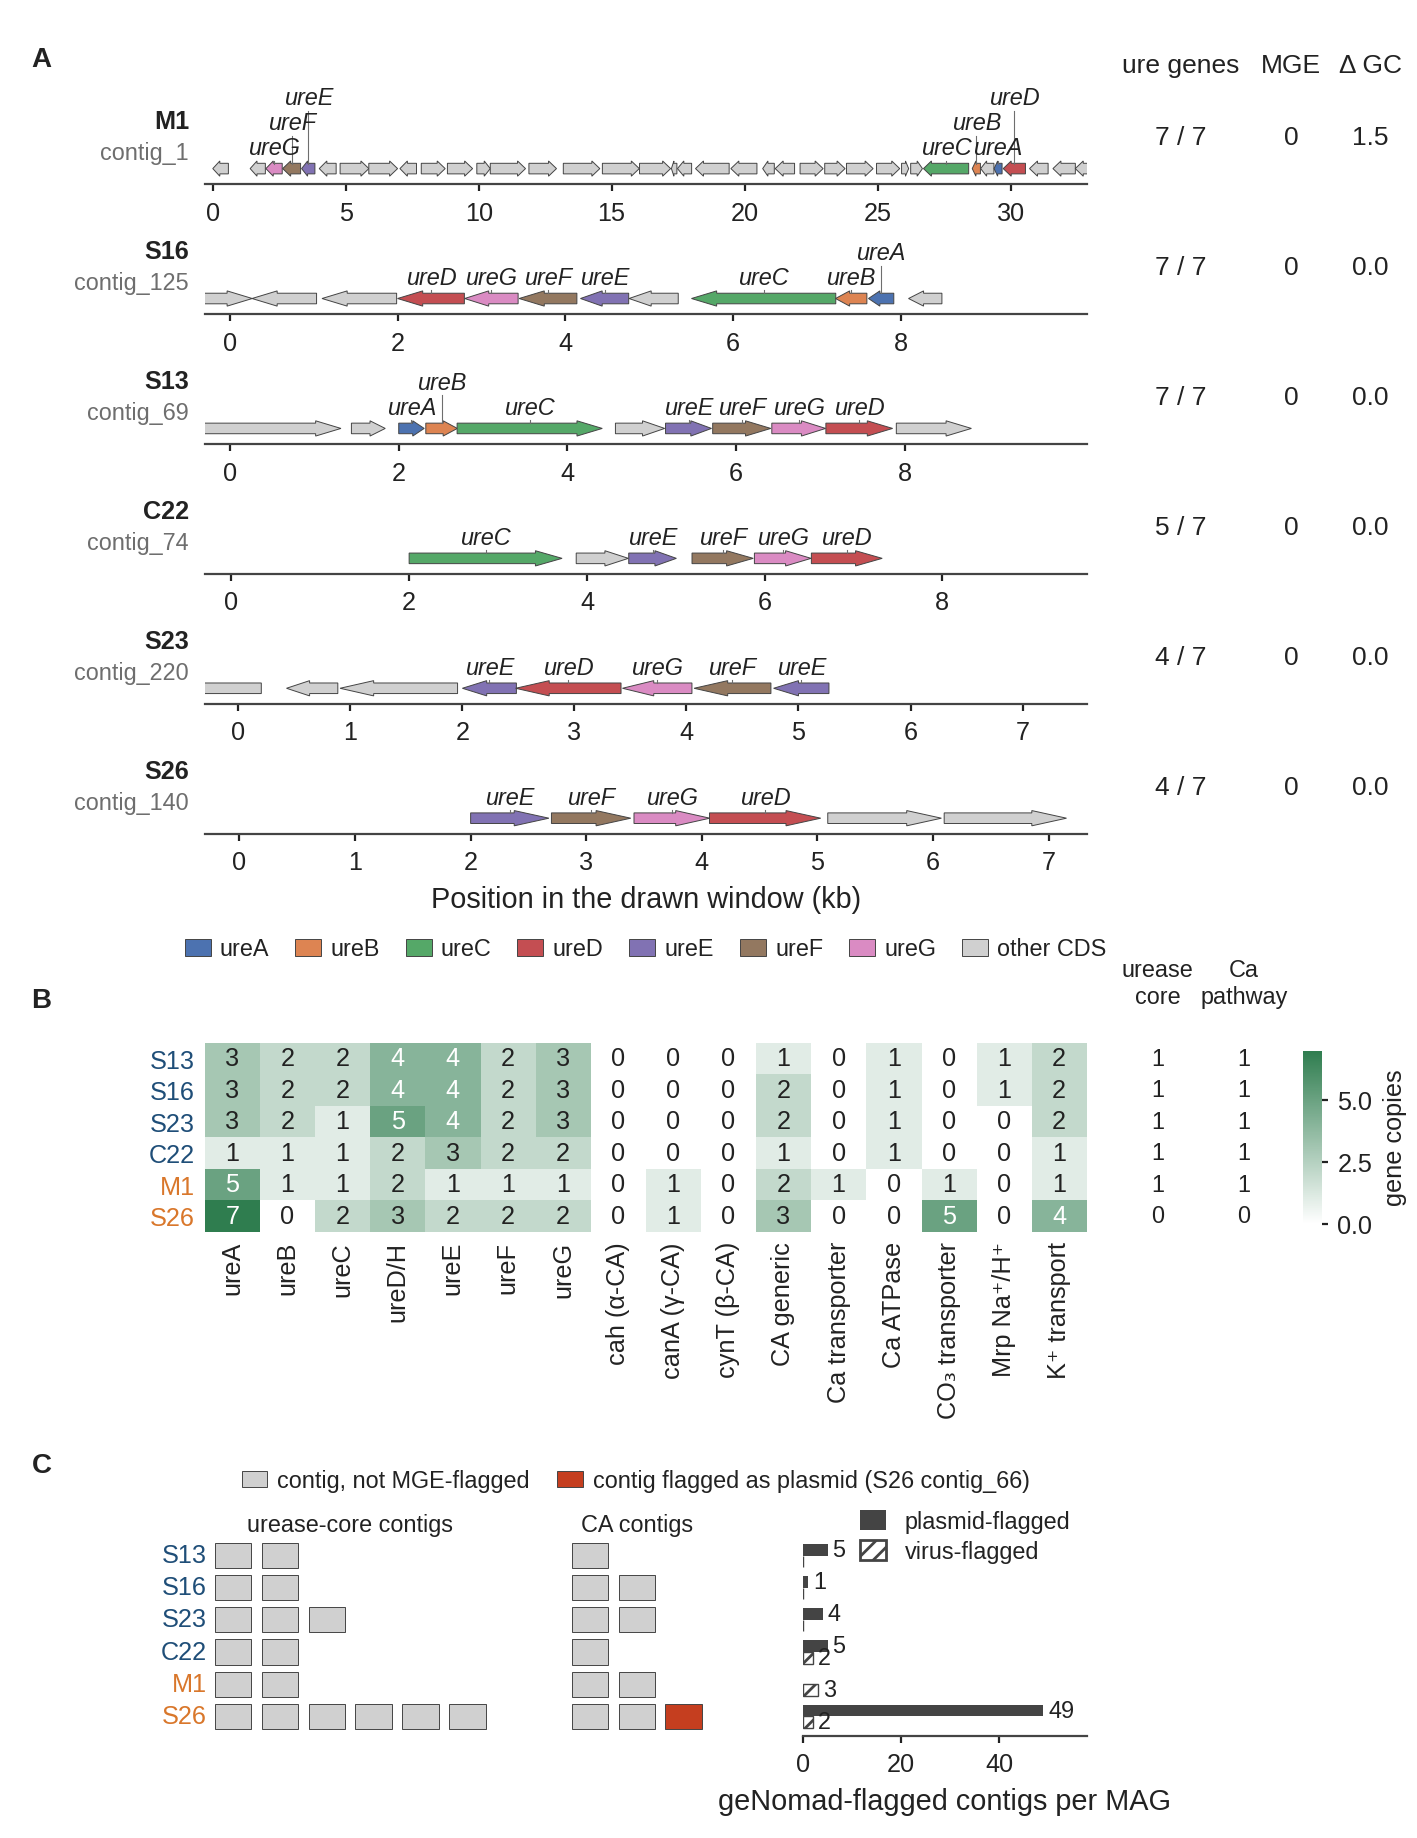
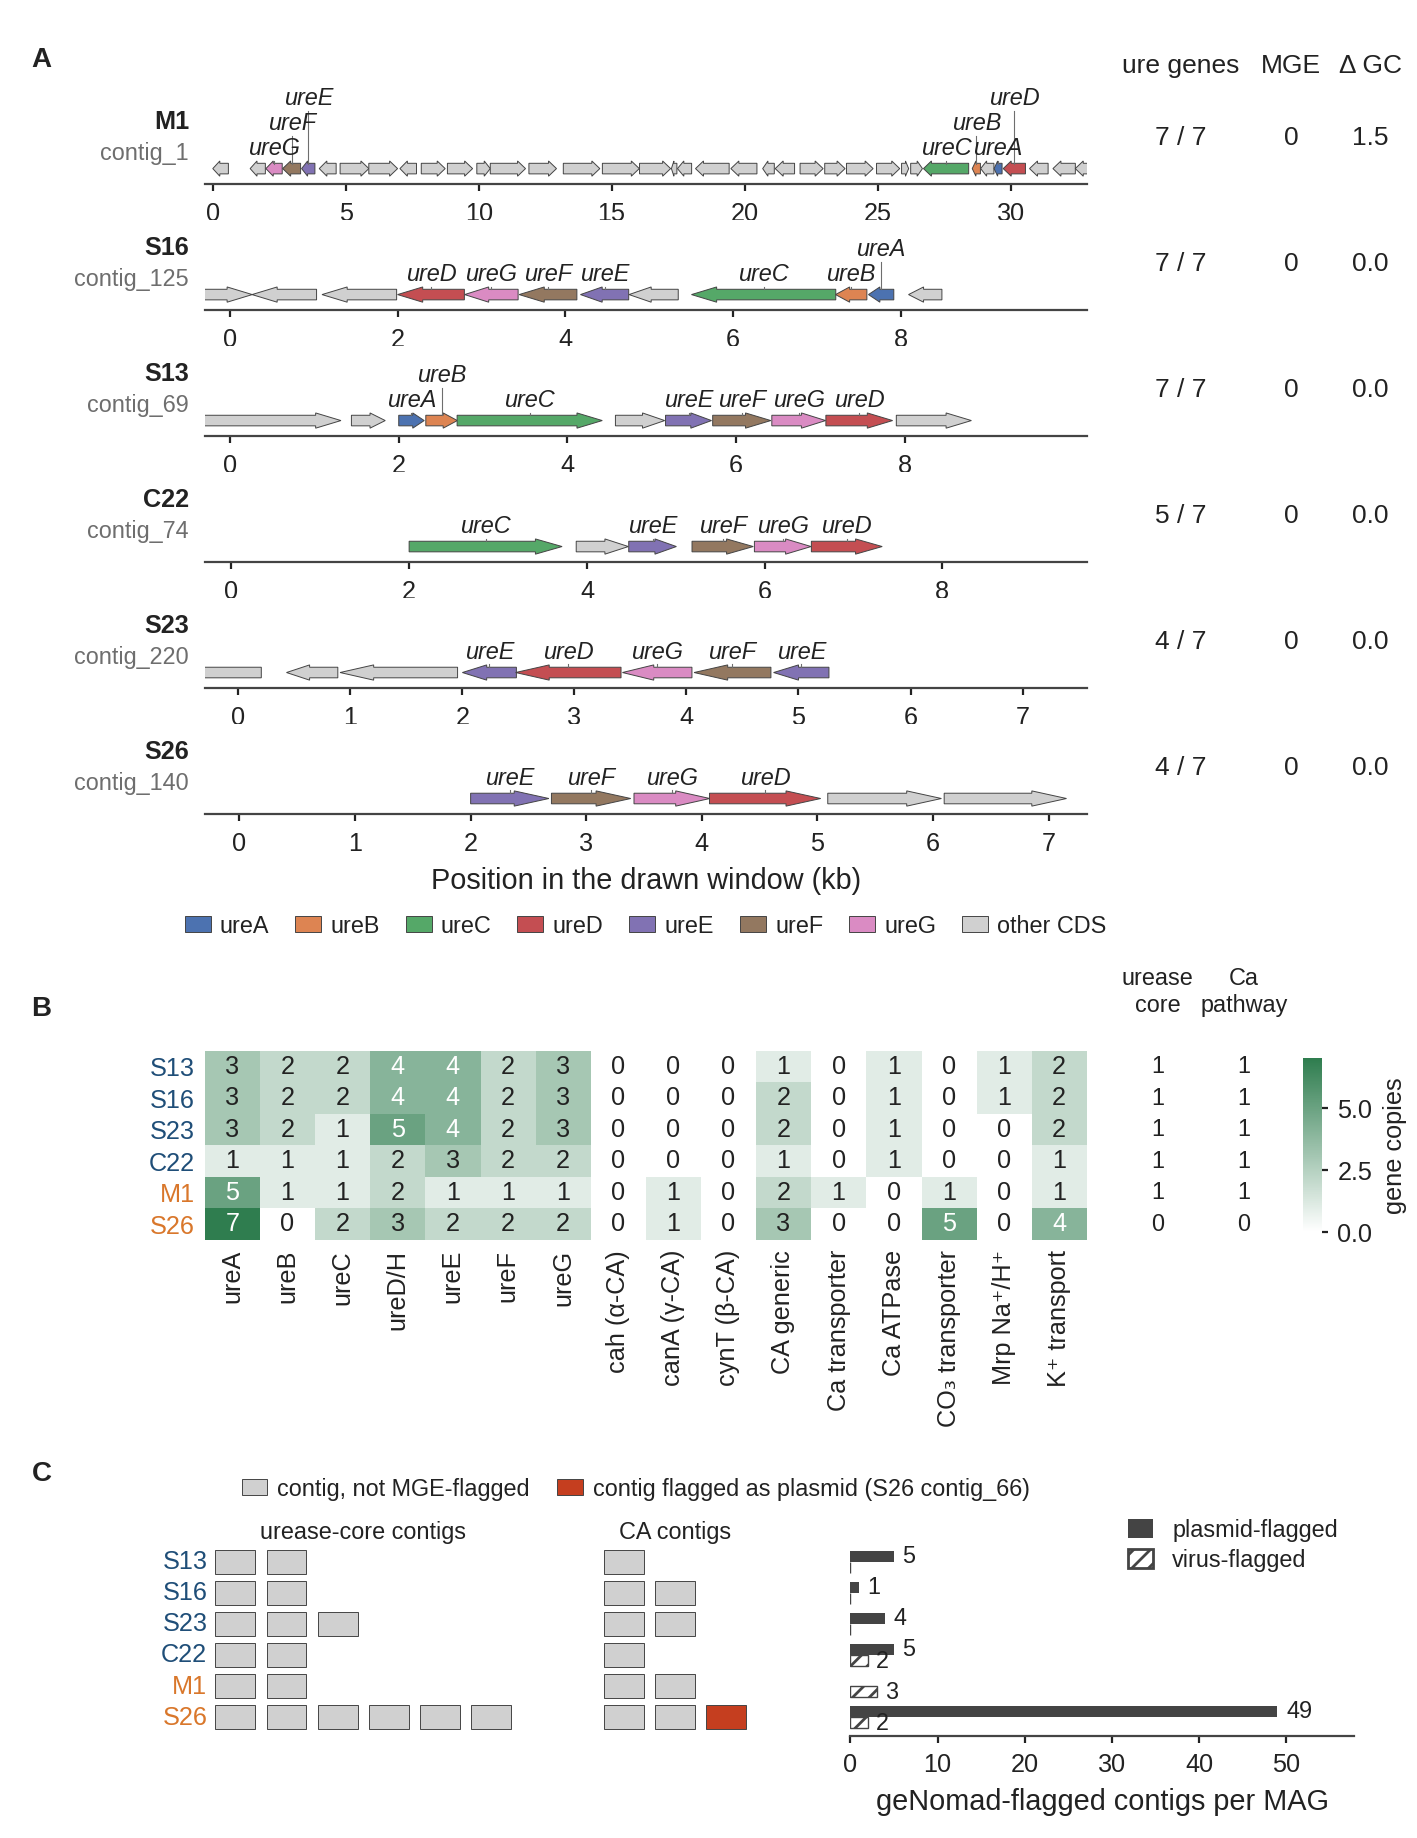
Fig 2: separate B's stat headers from A, C spans B's width; consistency pass over mapping, legends and README

diff --git a/figures/new_figure_v2/build_v2_fig2.py b/figures/new_figure_v2/build_v2_fig2.py
@@ -204,18 +204,18 @@ FS_A_BODY, FS_A_STAT = FS_BODY * 1.3, FS_STAT * 1.3      # panel A type, 1.3x th
 FS_A_TITLE = st.FS_TITLE * 1.3
 FS_A_TAB = 9.5                                            # A's stat block, a step larger
 
-ROW_H, GAP = 11.5, 5.0           # GAP holds a row of 9 pt tick labels
+ROW_H, GAP = 11.5, 4.5           # GAP holds a row of 9 pt tick labels
 TOP, LEFT, PLOT_W = 12.0, 26.0, 112.0
 STAT_X = LEFT + PLOT_W + 4.0                              # left edge of the stat block
 STAT_C = [STAT_X + 8.0, STAT_X + 22.0, STAT_X + 32.0]     # column centres (A)
 A_END = TOP + len(order) * (ROW_H + GAP)
 A_LEG_Y = A_END + 5.5            # gene key of panel A
-B_LET_Y = A_LEG_Y + 9.0
+B_LET_Y = A_LEG_Y + 13.0         # clears the key of A and B's own stat headers
 B_TOP = B_LET_Y + 7.0
 B_H = 24.0
 C_LET_Y = B_TOP + B_H + 28.0     # clears the rotated column labels of B
 C_TOP = C_LET_Y + 7.0
-C_H = 29.0
+C_H = 28.0
 H = C_TOP + C_H + 13.0
 assert H <= 235.0, H             # single-page ceiling
 
@@ -354,7 +354,8 @@ letter(4.0, C_LET_Y, "C")
 SQ = 0.78                        # square side in slot units
 GAP_SLOT = 1.6                   # empty slots between the urease and the CA group
 n_slots = n_ure_max + GAP_SLOT + n_ca_max
-W_SQ = 68.0                      # width of the square block (mm)
+W_SQ = 74.0                      # width of the square block (mm)
+C_END = STAT_X + 30.0            # right edge of C = right edge of B's colour-bar block
 axC = ax_mm(LEFT, C_TOP, W_SQ, C_H)
 axC.set_xlim(-0.6, n_slots + 0.2)
 axC.set_ylim(len(HEROES) - 0.4, -1.5)
@@ -382,7 +383,7 @@ for t in axC.texts:
     t.set_clip_on(False)
 
 # geNomad-flagged contig totals per MAG, as bars on the same rows
-axC2 = ax_mm(LEFT + W_SQ + 8.0, C_TOP, PLOT_W - W_SQ - 8.0, C_H)
+axC2 = ax_mm(LEFT + W_SQ + 8.0, C_TOP, C_END - (LEFT + W_SQ + 8.0), C_H)
 yb = np.arange(len(HEROES))
 hb = 0.36
 axC2.barh(yb - hb / 2, ov.n_plasmid_contigs.values, hb, color=AXIS, label="plasmid")

diff --git a/figures/new_figure/_job/JOURNAL.md b/figures/new_figure/_job/JOURNAL.md
@@ -920,3 +920,15 @@ Both pages audit-clean; consistency 19/19 and numbers 90/90 re-run; copied to
   three-line tick labels; paired value labels in B staggered when closer than 0.9 %;
   A's genus key above the bars.
 - **Fig S5**: D/E row moved down 6 mm and the A/C keys up, so the keys clear the letters.
+
+## 2026-09-09 (4) — Fig 2 spacing and consistency pass
+- **Fig 2**: B's stat headers (urease core / Ca pathway) moved 4 mm down from A's gene
+  key (`B_LET_Y = A_LEG_Y + 13`); C's bar axis now ends at B's colour-bar block
+  (`C_END = STAT_X + 30`), so B and C have one visible width; track gap 4.5 mm, C 28 mm.
+- **Consistency pass over everything that names a figure**: manuscript callouts (18,
+  each sentence read against the current panel — all agree), legends (Fig 2C wording,
+  header date, provenance line), `consolidation_260904/MAPPING.md` (Fig 1 rows),
+  `DESIGN.md` (revision note), `SUBMISSION_v2/00_README.md` (revision section).  The three
+  supplementary workbooks and the cover letters contain no figure references (grep over
+  every cell / line).  `audit_consistency` 19/19 and `audit_numbers` 90/90 pass; both docx
+  rebuilt.

diff --git a/scripts/consolidation_260904/DESIGN.md b/scripts/consolidation_260904/DESIGN.md
@@ -8,6 +8,11 @@ Interpretation recorded: "7000자" is read as **7,000 words** of body text
 (Introduction -> Conclusions). 7,000 characters would be ~1,100 words, which is not a
 viable research article, and every prior word budget in this project has been in words.
 
+## Revision 2026-09-09
+Fig 1 panels A and B (tree, gene matrix) became one radial panel A; the module-score and
+prevalence panels are B and C.  The table below records the 2026-09-04 design; the
+current numbering is in MAPPING.md.
+
 ## Main figures: 8 -> 5
 
 | new | working title | panels (source) |

diff --git a/scripts/consolidation_260904/MAPPING.md b/scripts/consolidation_260904/MAPPING.md
@@ -1,10 +1,10 @@
-# Old -> new numbering map (2026-09-04 consolidation)
+# Old -> new numbering map (2026-09-04 consolidation; Fig 1 rows revised 2026-09-09)
 
 ## Figures
 | old | new |
 |---|---|
-| Fig 1 (tree, gene matrix) | Fig 1A, 1B |
-| Fig 2a, 2b | Fig 1C, 1D |
+| Fig 1 (tree, gene matrix) | Fig 1A (radial tree with the gene matrix as concentric rings; one panel since 2026-09-09) |
+| Fig 2a, 2b | Fig 1B, 1C (were 1C, 1D until 2026-09-09) |
 | Fig 3 (synteny) | Fig 2A |
 | Fig 4a, 4b | Fig S2A, S2B |
 | Fig 4c | Fig 4B |
